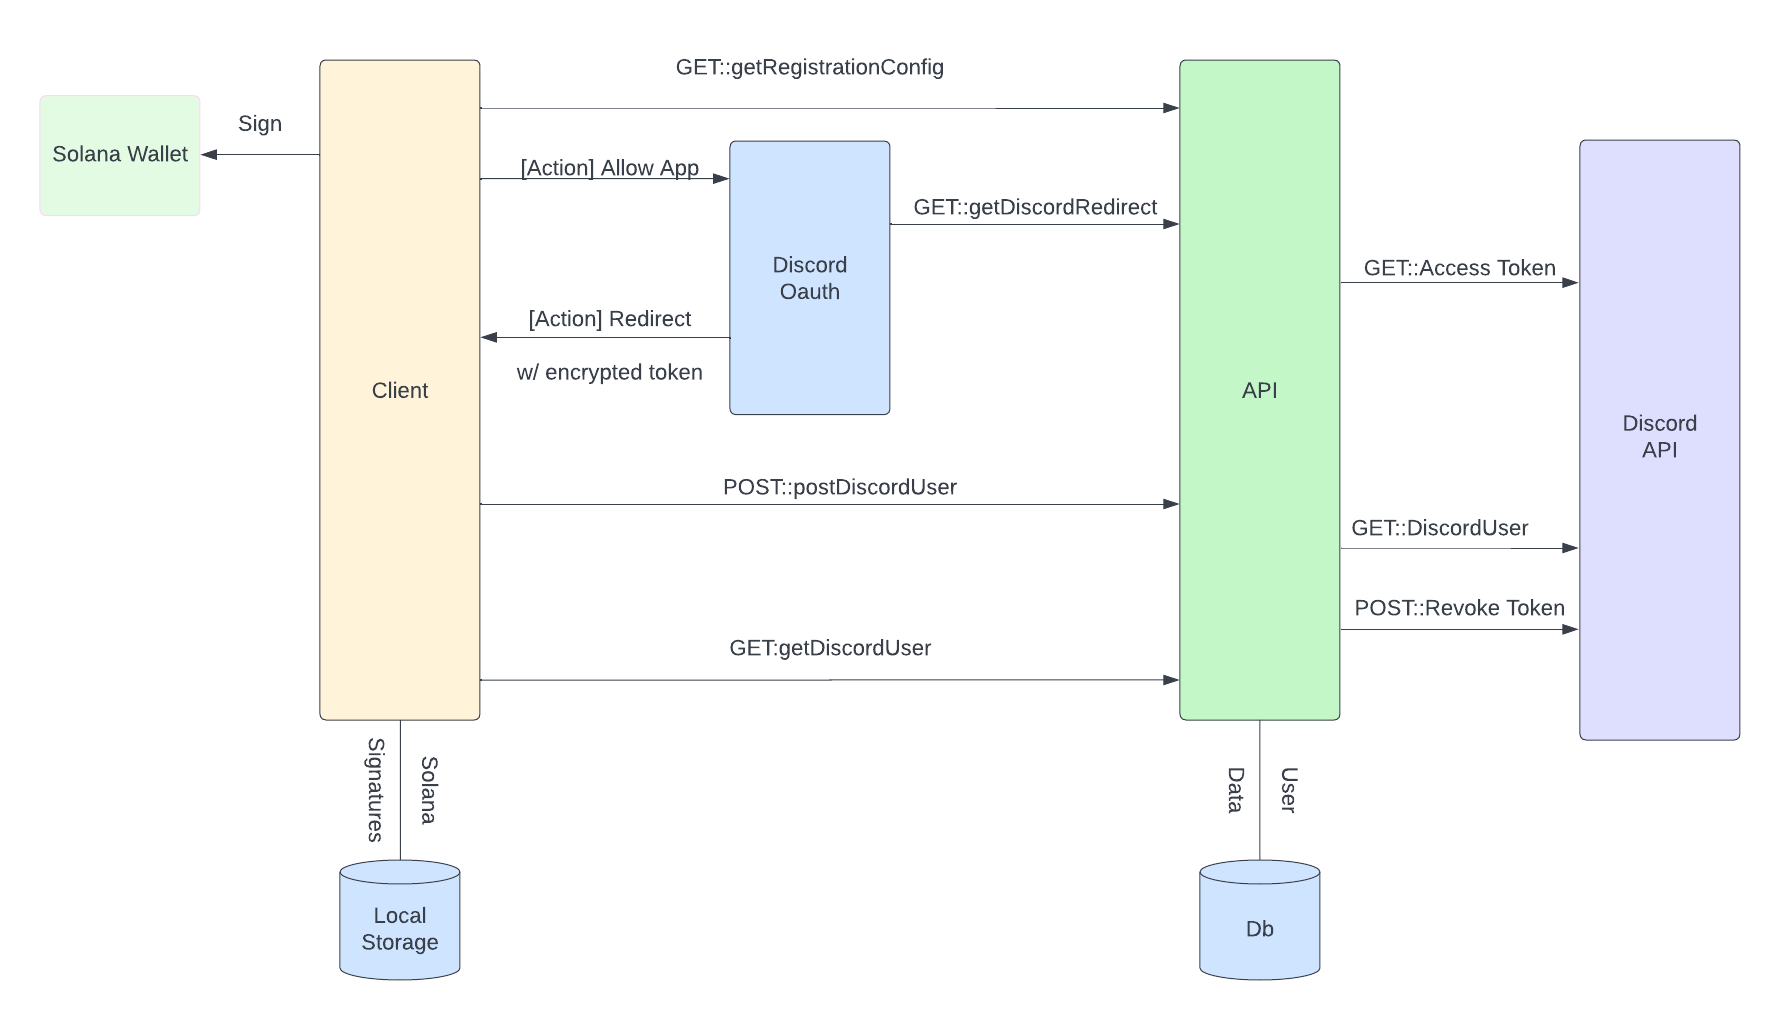
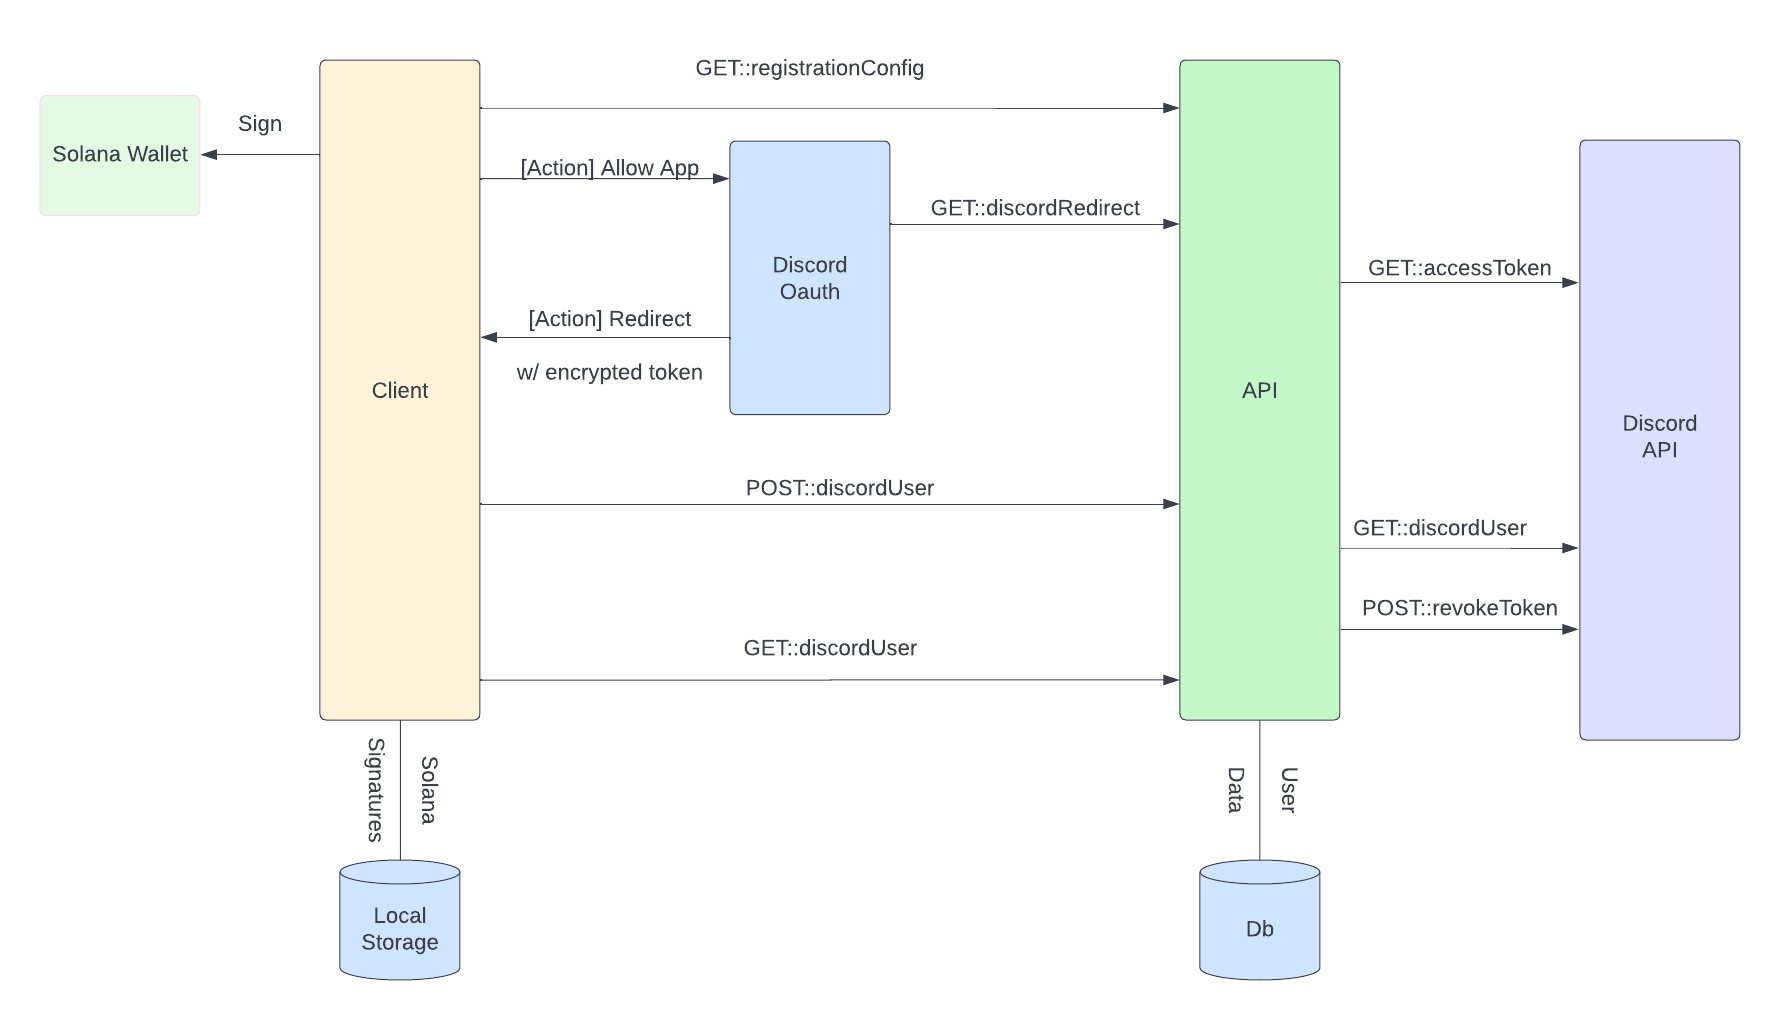
CHORE: Ran Prettier and final touches to arch.png

diff --git a/client/components/socials-component/index.tsx b/client/components/socials-component/index.tsx
@@ -31,22 +31,16 @@ const UserComponent = ({ discordUsername }: any) => {
 
 export const SocialsComponent = () => {
       const router = useRouter()
-
       const [headerMessage, setHeaderMessage] = useState(
             'Connect your Solana wallet to get started with Drift Discord'
       )
-
       const [driftMessage, setDriftMessage] = useState('')
       const [discordGeneratedUrl, setDiscordGeneratedUrl] = useState('')
-
       const [discordUser, setDiscordUser] = useState(null)
-
       const [discordUserFetched, setDiscordUserFetched] = useState(false)
       const [registrationConfigFetched, setRegistrationConfigFetched] =
             useState(false)
       const { connected, publicKey, signMessage } = useWallet()
-
-      const [isSigned, setIsSigned] = useState(false)
 
       const getSignatureFromLocalStorage = (): string => {
             var lastSignature: string | null =
@@ -156,7 +150,7 @@ export const SocialsComponent = () => {
                   signature: lastSignature,
                   accessToken: accessToken as string,
             })
-            if (response.status == 200){
+            if (response.status == 200) {
                   const responseJson = await response.json()
                   triggerToast(responseJson.message)
             }

diff --git a/README.md b/README.md
@@ -1,7 +1,7 @@
 <div align="center">
   <img height="120x" src="https://uploads-ssl.webflow.com/611580035ad59b20437eb024/616f97a42f5637c4517d0193_Logo%20(1)%20(1).png" />
 
-  <h1 style="margin-top:20px;">Drift Discord</h1>
+  <h1 style="margin-top:20px;">V1 Drift Discord</h1>
 </div>
 
 ## ✨  Services live. [Check it out!](https://client-4fpiw4senq-ue.a.run.app)
